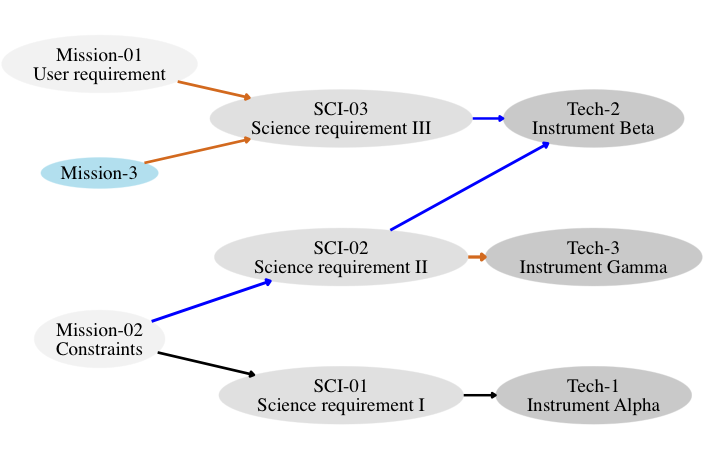
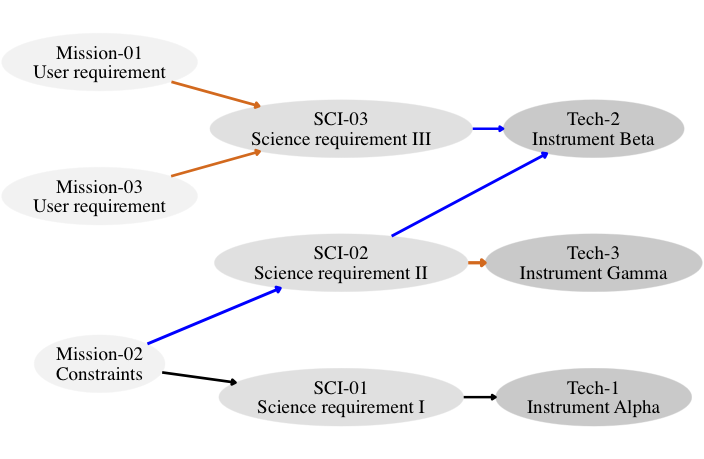
update mission level and change png filename

diff --git a/README.md b/README.md
@@ -87,8 +87,7 @@ expands published links to sublevels. To install this branch:
 
 
 ## Most recently committed flowchart:
-
-![Most recently committed flowchart of requirements](Digraph.gv.png) Requirements flowchart
+![Most recently committed flowchart of requirements](Digraph_gv.png) Requirements flowchart
 
 
 
